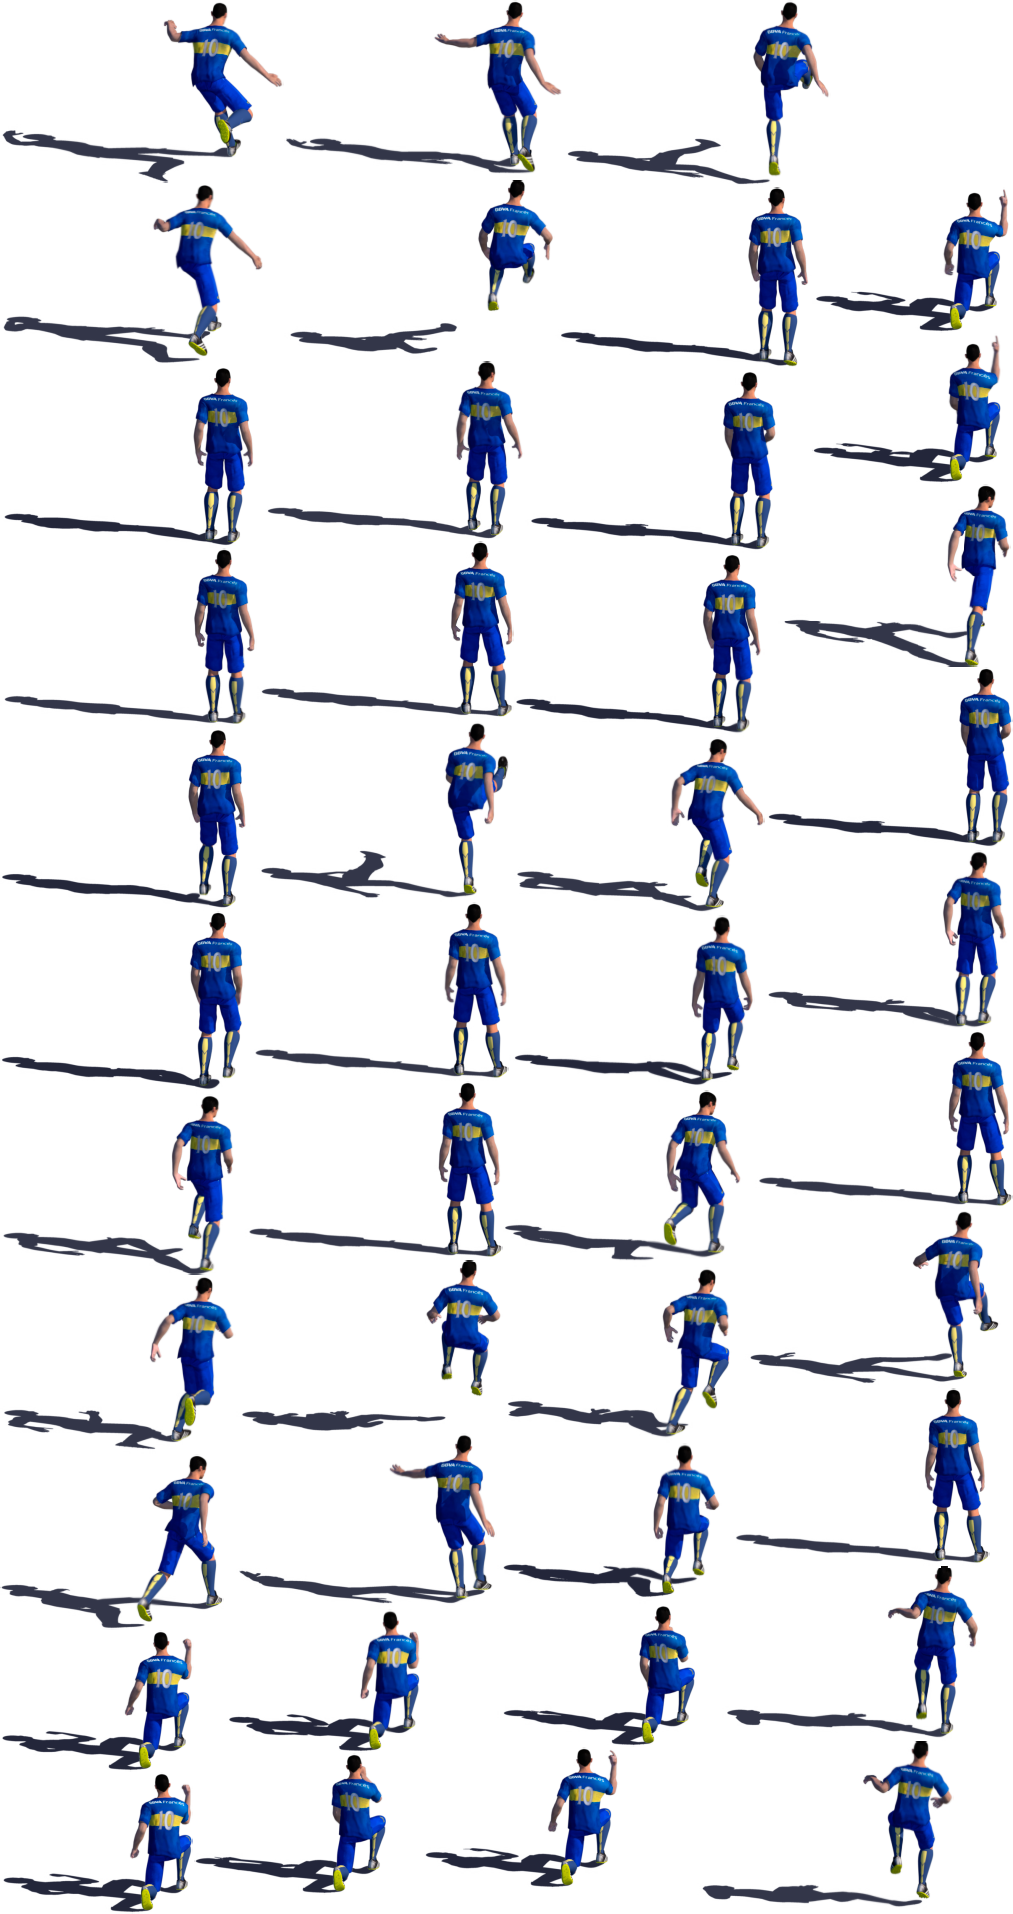
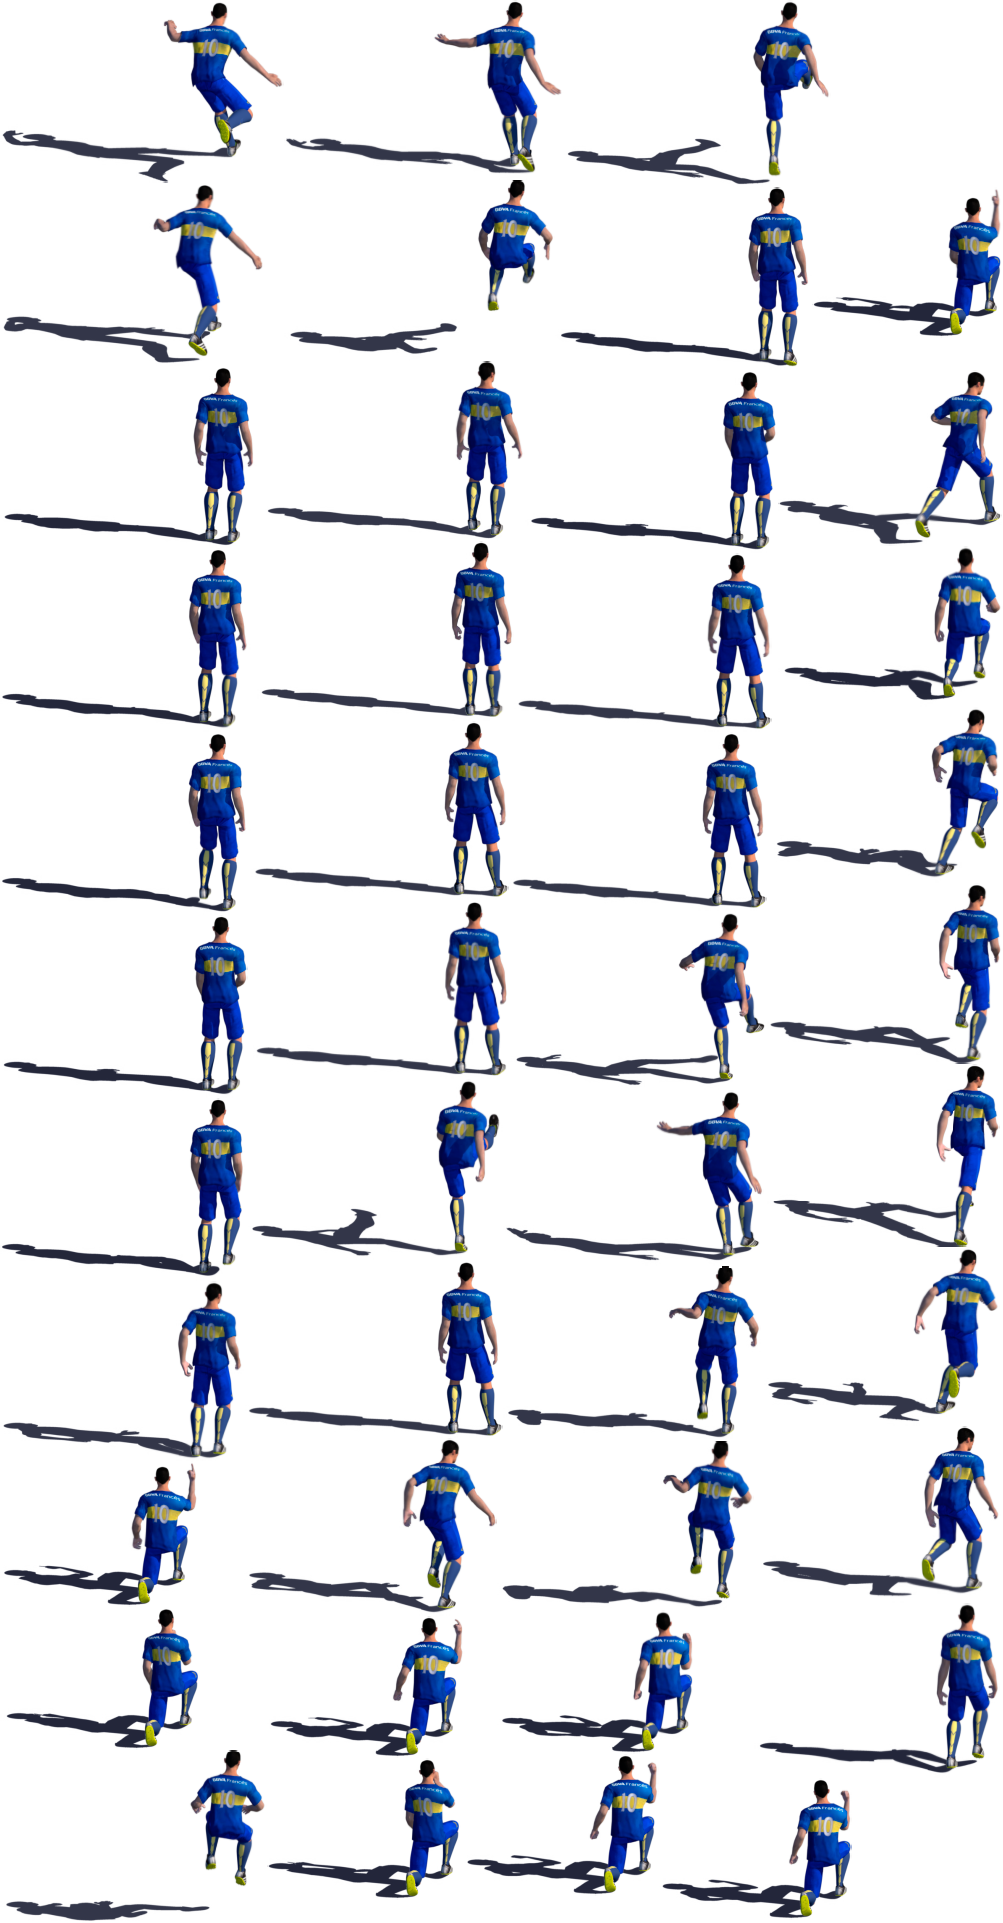
09:31 26-10
arreglos sin conexión

diff --git a/states/Game.js b/states/Game.js
@@ -1,5 +1,5 @@
 var Game = function(game) {};
-var delayPelota=500;
+var delayPelota=900;
 
 Game.prototype = {
 
@@ -76,7 +76,15 @@ Game.prototype = {
 
 
   screenOponente=self.pantallaOponente(self);
-  screenOponente.visible=true;
+  //screenOponente.visible=true;
+  
+  if(!serverEnabled){
+	  setTimeout(function(){
+		  CheckEvent("inicioPartida"," ");
+	  },300)
+  }else{
+	  screenOponente.visible=true;
+  }
 },
 
 drawBackground: function(){
@@ -165,17 +173,17 @@ drawPelota:function(){
 drawPlayer:function(){
 	player = game.add.sprite(318,210, 'pateador-local');
 	playerIPos=  new Phaser.Point();
-	playerIPos.x= 100;
+	playerIPos.x= 50;
 	playerIPos.y=350;
 	player.scale.setTo(1.3,1.3);
 	player.x=playerIPos.x;
 	player.y=playerIPos.y;
 	player.frame = 0;
 	//animacion player
-	player.animations.add('right', [04,05,06,07,08,09,10,11,12,13,14,15,00,01,02], 12, false);
-	player.animations.add('idle', [00,01,02,01], 2 , true);
-	player.animations.add('derrota', [15,16,17,18,19,20,21,22], 12 , false);
-	player.animations.add('festejo', [23,24,25,26,27,28,29,30,31,32], 12 , false);
+	player.animations.add('right', [04,05,06,07,08,09,10,11,12,13,14,15,16,17,18,19,20,21,22,23,24,25,26], 14, false);
+	player.animations.add('idle', [00,01,02,03,02,01], 2 , true);
+	player.animations.add('derrota', [27,28,29,30,31,32,33], 12 , false);
+	player.animations.add('festejo', [34,35,36,37,38,39,40,41,42,43], 12 , false);
 	player.visible=true;
 	player.play("idle");
 },
@@ -448,7 +456,7 @@ updateCounter: function () {
   patear: function(){
     tweenPlayer = game.add.tween(player);
 
-    setTimeout(function(){tweenPlayer.to({x:200, y:300},500, 'Linear', true, 0);},0);
+    setTimeout(function(){tweenPlayer.to({x:260, y:300},700, 'Linear', true, 0);},0);
 
     player.animations.play('right');
 
@@ -727,6 +735,9 @@ EnviarJugadaServer: function(self){
 	self.establecerParametrosBarra(self);
 	counter=150000;
 	buttons.visible=false;
+	if(!serverEnabled){
+		localStorage["jugadaPlayer"]= self.idElegido;
+	}
     Emit("enviarJugada",self.idElegido,"recibeJugada","resolverJugada",self);
 },
 
@@ -760,8 +771,14 @@ resolverJugada: function(msg){
 ListenerPateador: function(self, datosServer){
 
 	self.posArqueroI= self.arqueroID;
-
-    self.animarJugada(self,datosServer);
+	if(!serverEnabled){
+		setTimeout(function(){
+			self.animarJugada(self,datosServer);
+		},2000);
+	}else{
+		self.animarJugada(self,datosServer);
+	}
+    
 
 },
 
@@ -770,7 +787,13 @@ ListenerArquero: function(self, datosServer){
 	/**quitar**/
 	generator = datosServer.computer;
 
-	self.animarJugada(self,datosServer);
+	if(!serverEnabled){
+		setTimeout(function(){
+			self.animarJugada(self,datosServer);
+		},2000);
+	}else{
+		self.animarJugada(self,datosServer);
+	}
 
 },
 
@@ -806,6 +829,11 @@ animarJugada:function(self,datosServer){
 			}
 		});
 	},delayPelota);
+	if(!serverEnabled){
+		setTimeout(function(){
+			CheckEvent("inicioTurno","{}");
+		},4000);
+	}
 },
 
 animarArco:function(self){

diff --git a/states/Client.js b/states/Client.js
@@ -1,4 +1,4 @@
-var serverEnabled=true;
+var serverEnabled=false;
 var socket;
 if(serverEnabled){
 socket = io('http://localhost:3000');
@@ -55,6 +55,7 @@ var currentContext;
 function Emit(toEmit,params,eventListen="",callback="",context="",oneshot=true){
 	if(toEmit=='enviarJugada'){
 		console.log("envia jugada al servidor");
+		console.log("params "+params);
 	}
 	console.log("params "+params);
 	console.log("event listen "+eventListen);
@@ -107,6 +108,9 @@ function GetStorage(code){
 }
 
 function GetDummy(event){
+	if(!serverEnabled&&event=='recibeJugada'){
+		return '{"user":'+localStorage["jugadaPlayer"]+',"computer":'+game.rnd.integerInRange(1,6)+'}';
+	}
 	return dummys[event];
 }
 

diff --git a/states/gamemenu.js b/states/gamemenu.js
@@ -40,19 +40,19 @@ GameMenu.prototype = {
     //   game.state.start("Multiplayer");
     // });
 
-    this.addMenuOption('CLÁSICO \none', function () {
+     this.addMenuOption('CLÁSICO \none', function () {
       game.state.start("Selectplayer");
-    });
+    }).x=600;;
 
 
-    this.addMenuOption('DESAFÍO \ntwo', function () {
+    /*this.addMenuOption('DESAFÍO \ntwo', function () {
 
       game.state.start("Multiplayer");
-    });
+    }).x=600;*/
 
     this.addMenuOption('ESTADÍSTICAS', function () {
       game.state.start("Stadistics");
-    });
+    }).x=600;
     //
     // this.addMenuOption('VERSUS', function () {
     //   game.state.start("Versus");
